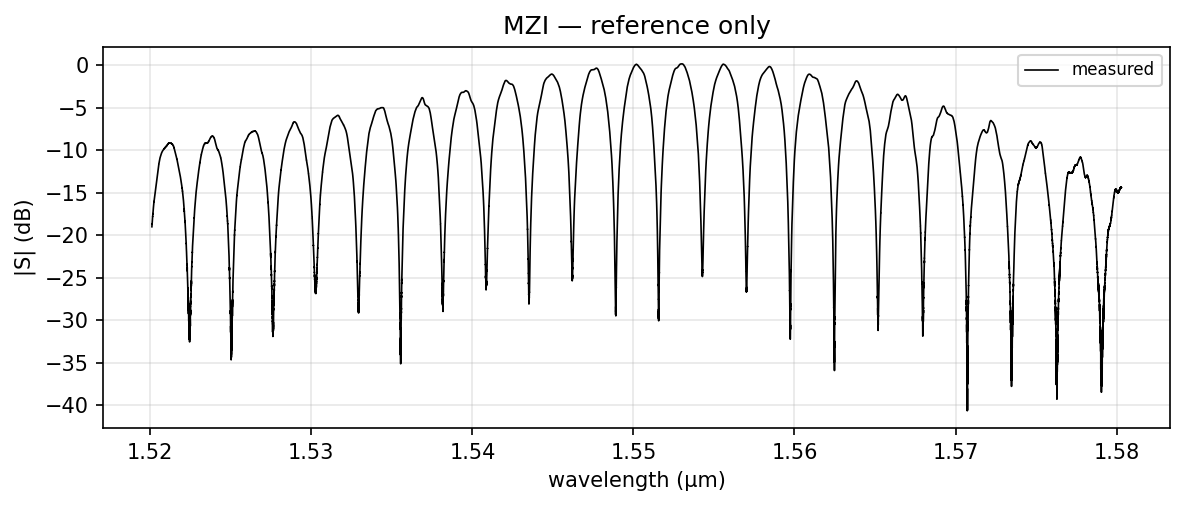
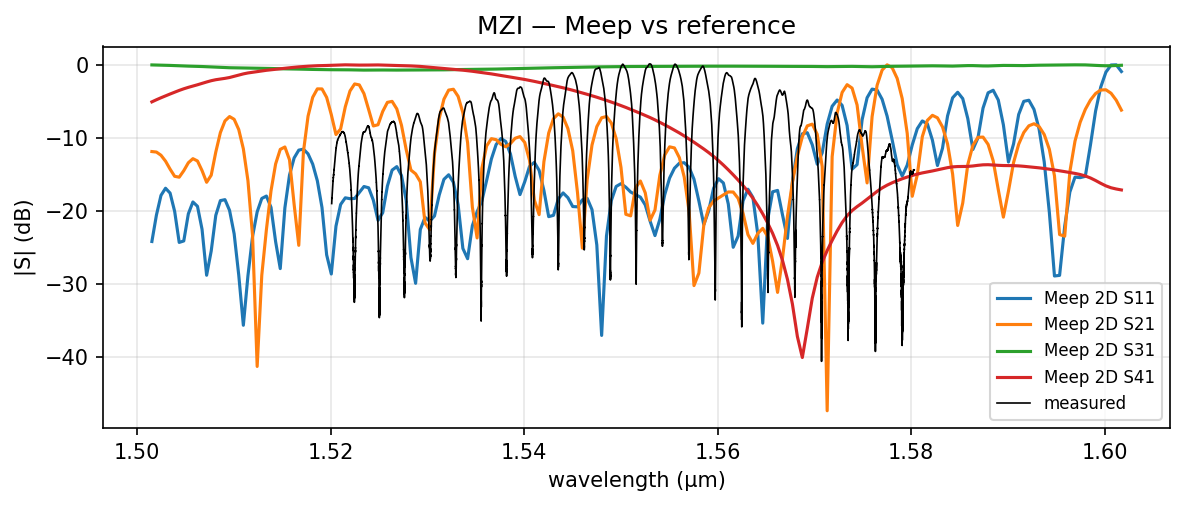
docs: publish variant 'pdk-validation'

diff --git a/pdk-validation/index.html b/pdk-validation/index.html
@@ -94,7 +94,7 @@
               </header>
               <a href="gds/mzi.gds"><img class="layout" src="gds/mzi.png" alt="MZI layout"></a>
               <p class="small"><a href="gds/mzi.gds">download GDS</a> · recorded for this render</p>
-              <a href="plots/mzi_data.png"><img class="plot" src="plots/mzi_data.png" alt="MZI reference data only — no simulated run recorded"></a><p class="muted small">reference data only — no simulated run recorded</p>
+              <a href="plots/mzi_data.png"><img class="plot" src="plots/mzi_data.png" alt="MZI Meep vs reference"></a><p class="muted small">Meep vs reference</p>
               <p class="small">runs: <a class="chip" href="runs/runs/2d_mzi/s_parameters.csv">2d_mzi</a></p>
             </article>
             
@@ -108,7 +108,7 @@
               </header>
               <a href="gds/ring.gds"><img class="layout" src="gds/ring.png" alt="Ring resonator layout"></a>
               <p class="small"><a href="gds/ring.gds">download GDS</a> · recorded for this render</p>
-              <a href="plots/ring_data.png"><img class="plot" src="plots/ring_data.png" alt="Ring resonator reference data only — no simulated run recorded"></a><p class="muted small">reference data only — no simulated run recorded</p>
+              <a href="plots/ring_data.png"><img class="plot" src="plots/ring_data.png" alt="Ring resonator Meep vs reference"></a><p class="muted small">Meep vs reference</p>
               <p class="small">runs: <a class="chip" href="runs/runs/2d_ring/s_parameters.csv">2d_ring</a></p>
             </article>
             
